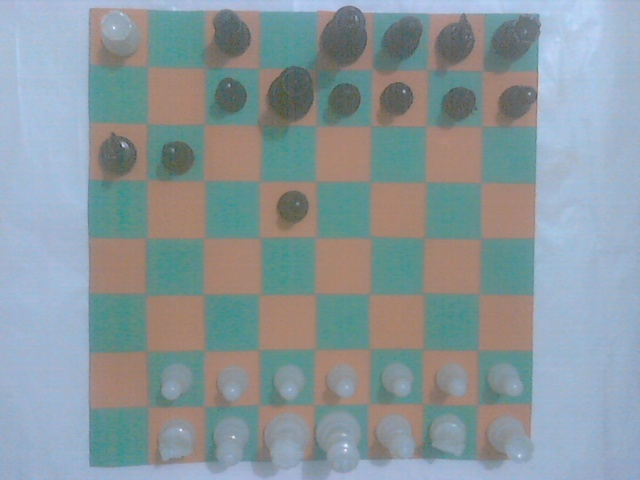
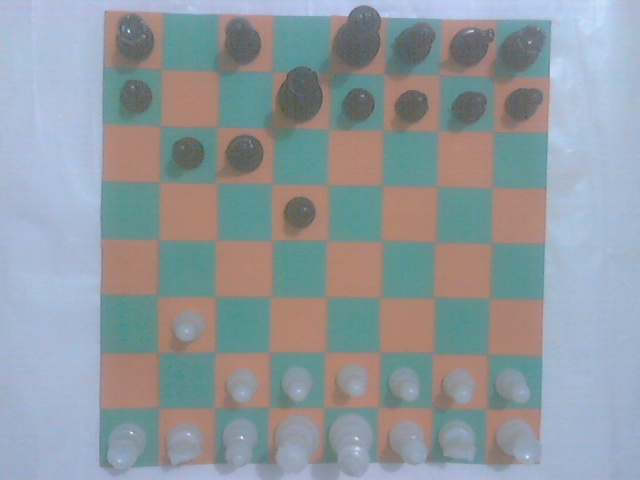
Successful Complete Test

Changed region(s): [[0.125, 0.0, 0.875, 1.0], [0.9375, 0.0, 0.9688, 0.0312]]

diff --git a/ChessBoard.py b/ChessBoard.py
@@ -121,7 +121,7 @@ class ChessBoard:
 		self.plotAllEdges(testImg)
 		# plt.imshow(testImg),plt.show()
 		self.detectAllVertices(testImg)
-		self.displayAllVertices(testImg)
+		# self.displayAllVertices(testImg)
 		# print folderName
 		return self.populate(testImg, folderName)
 
@@ -289,12 +289,12 @@ class ChessBoard:
 					clrs[ind] = (clrs[ind][1], clrs[ind][0])
 				clrs.sort(reverse = True)
 
-				print clrs
+				# print clrs
 				blank.append( (clrs[0][0] + clrs[1][0] + clrs[2][0] )  / 3 )
 				# if sum(img.convert("L").getextrema()) in (0, 2):
 				# 	print str(i) + str(j)
 
-		print "$" * 30
+		# print "$" * 30
 
 		for i in xrange(8):
 			for j in xrange(8):
@@ -304,17 +304,18 @@ class ChessBoard:
 				clrs.sort(reverse = True)
 				for ind in xrange(len(clrs)):
 					clrs[ind] = (clrs[ind][1], clrs[ind][0])
-				print clrs
+				# print clrs
 				full.append( (clrs[0][0] + clrs[1][0] + clrs[2][0] )  / 3 )
 
 		for i in xrange(len(full)):
-			print full[i], " ", blank[i] 
-			if (i / 8) <= 3:
-				thisOffset = 10
-			elif (i / 8) <= 5:
-				thisOffset = 5
-			else:
-				thisOffset = 2
+			thisOffset = 20
+			# print full[i], " ", blank[i] 
+			# if (i / 8) <= 3:
+			# 	thisOffset = 10
+			# elif (i / 8) <= 5:
+			# 	thisOffset = 5
+			# else:
+			# 	thisOffset = 2
 			if abs(full[i] - blank[i]) >= thisOffset:
 				x = i / 8
 				y = i % 8
@@ -324,56 +325,6 @@ class ChessBoard:
 					self.TOPOLOGY[x][y] = 'B'
 
 		return
-
-		# for i in range(0,8):
-		# 	for j in range(0,8):
-		# 		w = 0
-		# 		b = 0
-		# 		for x in range(0,10):
-		# 			for y in range(0,10):
-		# 				flagW = 1
-		# 				flagB = 1
-		# 				standardAvg = 0
-		# 				thisAvg = 0
-		# 				for l in range(0,3):
-		# 					standardAvg += self.blankBoardMatrix[i][j][x][y][l]
-		# 				for l in range(0,3):
-		# 					thisAvg += self.fullBoardMatrix[i][j][x][y][l]
-						
-
-		# 				if (i + j) % 2 == 0:
-		# 					if standardAvg + 40 > thisAvg:
-		# 						flagW = 0
-		# 				else:
-		# 					if standardAvg + 60 > thisAvg:
-		# 						flagW = 0
-
-		# 				if (i + j) % 2 != 0:
-		# 					if standardAvg - 40 < thisAvg:
-		# 						flagB = 0
-		# 				else:
-		# 					if standardAvg - 60 < thisAvg:
-		# 						flagB = 0
-
-		# 				if flagB == flagW:
-		# 					if flagB == 1:
-		# 						a = 1
-		# 						# print "True ConFlict at ", (i,j)
-		# 					else:
-		# 						a = 1
-		# 						# print "False ConFlict at ", (i,j)
-		# 				elif flagB == 1:
-		# 					b += 1
-		# 				else:
-		# 					w += 1
-		# 		# print i, " ", j, " ", w, " ",b
-		# 		if w > 30:
-		# 			self.TOPOLOGY[i][j] = 'W'
-		# 		elif b > 30:
-		# 			self.TOPOLOGY[i][j] = 'B'
-		# 		else:
-		# 			a = 1
-		# 			# print "Conflict at ",(i,j)
 
 	def getFourCorners(self):
 		return self.CORNERS

diff --git a/rotateBoard.cpp b/rotateBoard.cpp
@@ -2,8 +2,7 @@
 	Author : Asim Krishna Prasad
 
 	Aim :
-		1> Generate the current board matrix using current player matrix and 
-			previous board matrix
+		1> To rotate the input board by 90-degrees clockwise
 
 */
 using namespace std;
@@ -45,12 +44,14 @@ using namespace std;
 
 const int LIMIT = 8;
 
-vector<string> playerMatrix, prevBoard;
+vector<string> playerMatrix, rotatedBoard;
 char pieceLifted;
 
 int main()
 {
 	int i, j, l;
+
+	freopen("thisPlayerMatrix", "r", stdin);
 
 	fl(i,0,LIMIT)
 	{
@@ -59,58 +60,22 @@ int main()
 		playerMatrix.PB(temp);
 	}
 
-	freopen("prevBoard.txt", "r", stdin);
-
 	fl(i,0,LIMIT)
 	{
-		string temp;
-		cin>>temp;
-		prevBoard.PB(temp);
-	}
-
-	bool doBreak = 0;
-
-	fl(i,0,LIMIT)
-	{
+		string temp = "";
 		fl(j,0,LIMIT)
 		{
-			if( playerMatrix[i][j] == '.' && prevBoard[i][j] != '.' && islower(prevBoard[i][j]))
-			{
-				pieceLifted = prevBoard[i][j];
-				//cout<<pieceLifted<<" "<<i<<" "<<j; nline;
-				prevBoard[i][j] = '.';
-				doBreak = 1;
-				break;
-			}
+			temp += playerMatrix[j][i];
 		}
-		if(doBreak)
-			break;
+		//cout<<temp; nline;
+		rotatedBoard.PB(temp);
 	}
-	
-	doBreak = 0;
 
 	fl(i,0,LIMIT)
 	{
 		fl(j,0,LIMIT)
 		{
-			if( playerMatrix[i][j] == 'B' && (prevBoard[i][j] == '.' || isupper(prevBoard[i][j]) ) )
-			{
-				prevBoard[i][j] = pieceLifted;
-				doBreak = 1;
-				break;
-			}
-		}
-		if(doBreak)
-			break;
-	}
-
-	freopen("tempFile.txt", "w", stdout);
-
-	fl(i,0,LIMIT)
-	{
-		fl(j,0,LIMIT)
-		{
-			cout<<prevBoard[i][j];
+			cout<<rotatedBoard[i][j];
 		}
 		nline;
 	}

diff --git a/nextMove.cpp b/nextMove.cpp
@@ -172,7 +172,7 @@ int evaluate(vector<string> mat)
 	value['n'] = value['N'] = 15;
 	value['b'] = value['B'] = 13;
 	value['q'] = value['Q'] = 50;
-	value['k'] = value['K'] = 500;
+	value['k'] = value['K'] = 1000;
 	value['p'] = value['P'] = 5;
 
 	int i, j;
@@ -488,7 +488,7 @@ int main()
 					{
 						if(l == 0 && !(isEmpty(x,y,inBoard)) )
 							continue;
-						if(l == 3 && i != 6)
+						if(l == 3 && (i != 6 || !(isEmpty(x,y,inBoard) ) ) )
 							continue;
 						if( (l == 1 || l == 2) && isOnBoard(x,y) && (isEmpty(x,y,inBoard) || (isSamePlayer(x,y,MYPLAYER,playerMatrix) ) ) )
 							continue;
@@ -533,7 +533,7 @@ int main()
 	inBoard[finalMove[1].first][finalMove[1].second] = inBoard[finalMove[0].first][finalMove[0].second];
 	inBoard[finalMove[0].first][finalMove[0].second] = '.';
 
-	freopen("prevBoard", "w", stdout);
+	freopen("prevBoard.txt", "w", stdout);
 
 	fl(i,0,LIMIT)
 	{

diff --git a/src/bw.py b/src/bw.py
@@ -1,0 +1,37 @@
+import numpy as np
+import cv2
+import sys
+from matplotlib import pyplot as plt
+from math import *
+import shutil
+import Geometry
+from copy import deepcopy
+from PIL import Image
+
+blank = []
+full = []
+
+for i in xrange(8):
+	for j in xrange(8):
+		img = Image.open("blankBoard/" + str(i) + str(j) + ".jpg")
+		img = img.convert("L")
+		clrs = img.getcolors()
+		clrs.sort(reverse = True)
+		blank.append(clrs[0][1])
+		# if sum(img.convert("L").getextrema()) in (0, 2):
+		# 	print str(i) + str(j)
+
+for i in xrange(8):
+	for j in xrange(8):
+		img = Image.open("fullBoard/" + str(i) + str(j) + ".jpg")
+		img = img.convert("L")
+		clrs = img.getcolors()
+		clrs.sort(reverse = True)
+		full.append(clrs[0][1])
+
+for i in xrange(len(full)):
+	print blank[i], " ", full[i]
+
+for i in xrange(len(full)):
+	if abs(full[i] - blank[i]) >= 5:
+		print i

diff --git a/camera.py b/camera.py
@@ -17,7 +17,7 @@ if len(sys.argv) != 2:
 filename = sys.argv[1] + ".jpg"
 
 # 1 => to use secondary (USB) web camera
-cap = cv2.VideoCapture(1)
+cap = cv2.VideoCapture(0)
 
 while(True):
 	# Capture frame-by-frame
@@ -28,6 +28,13 @@ while(True):
 
 	# Display the resulting frame
 	cv2.imshow('frame',frame)
+
+	# for auto click
+	cv2.imwrite(filename,frame)
+	if not os.path.exists("img/"):
+		os.makedirs("img/")
+	shutil.move(filename,"img/"+filename)
+	break
 
 	#Save the frame and quit on 'q'
 	if cv2.waitKey(1) & 0xFF == ord('q'):
